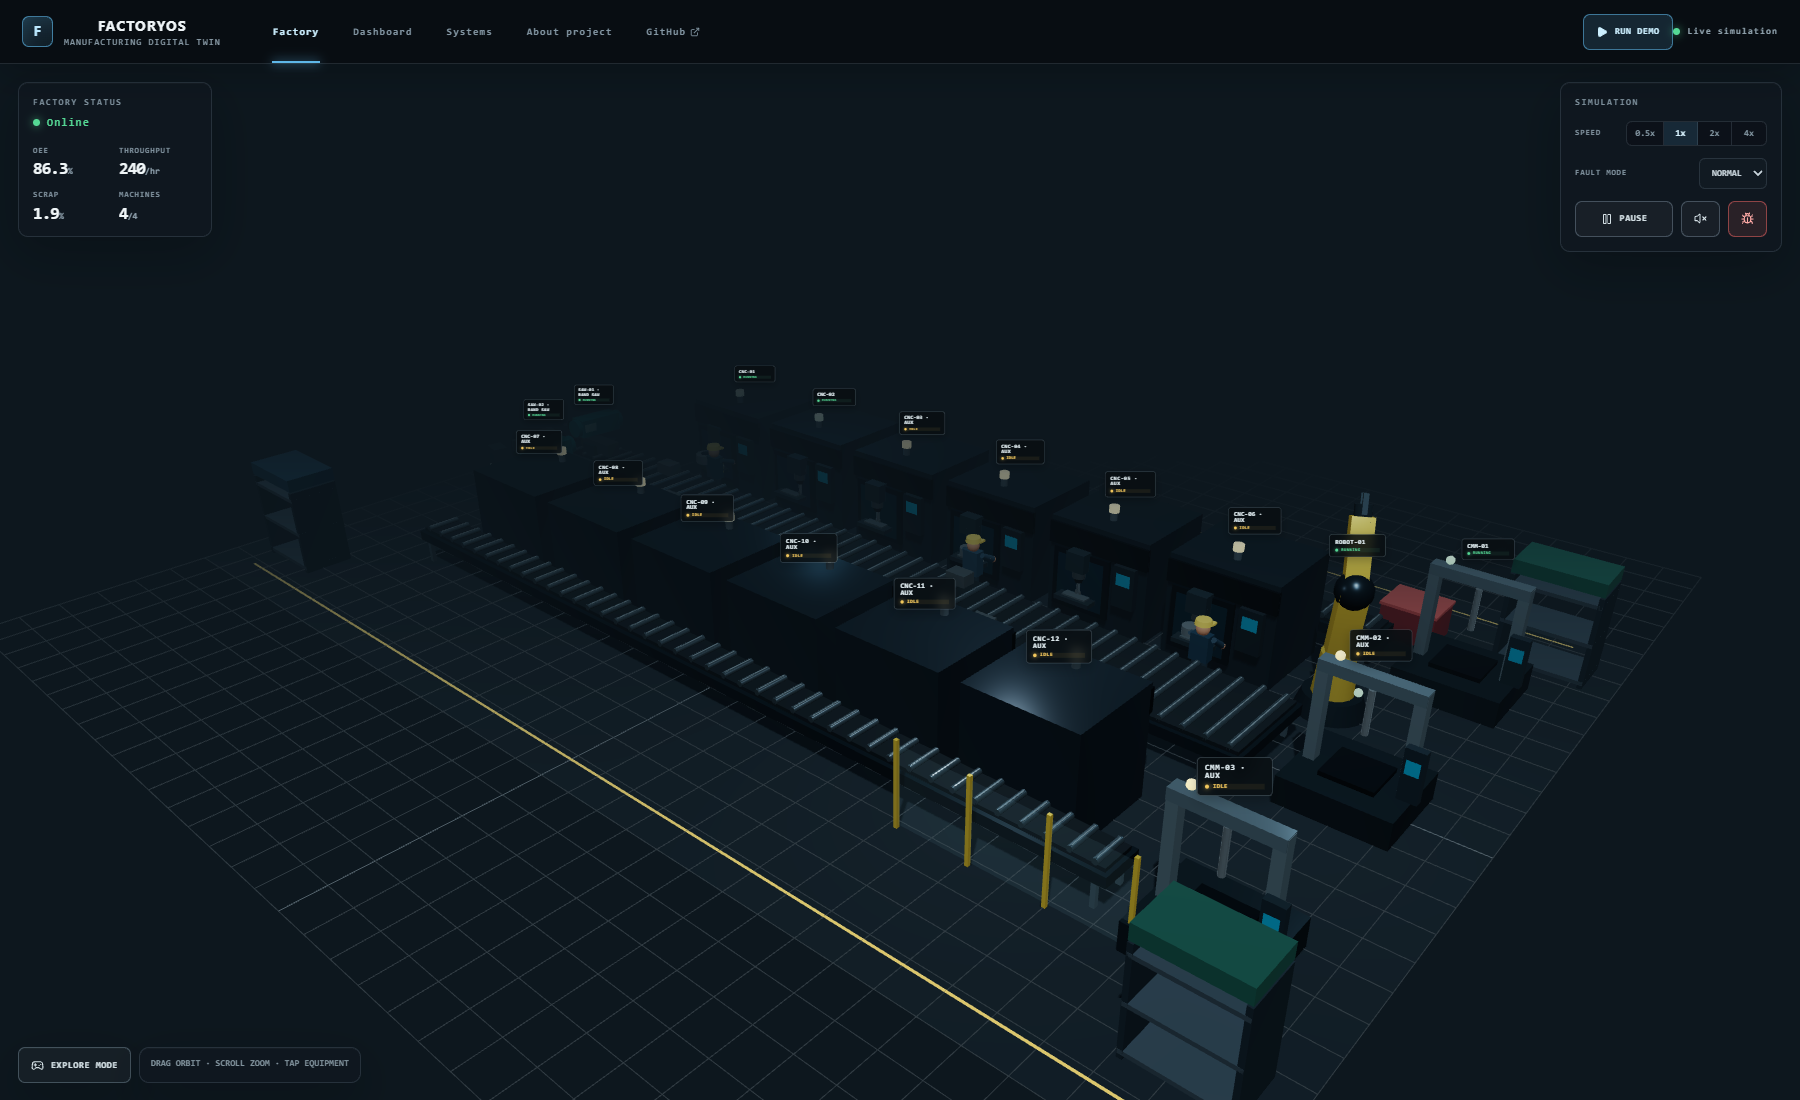
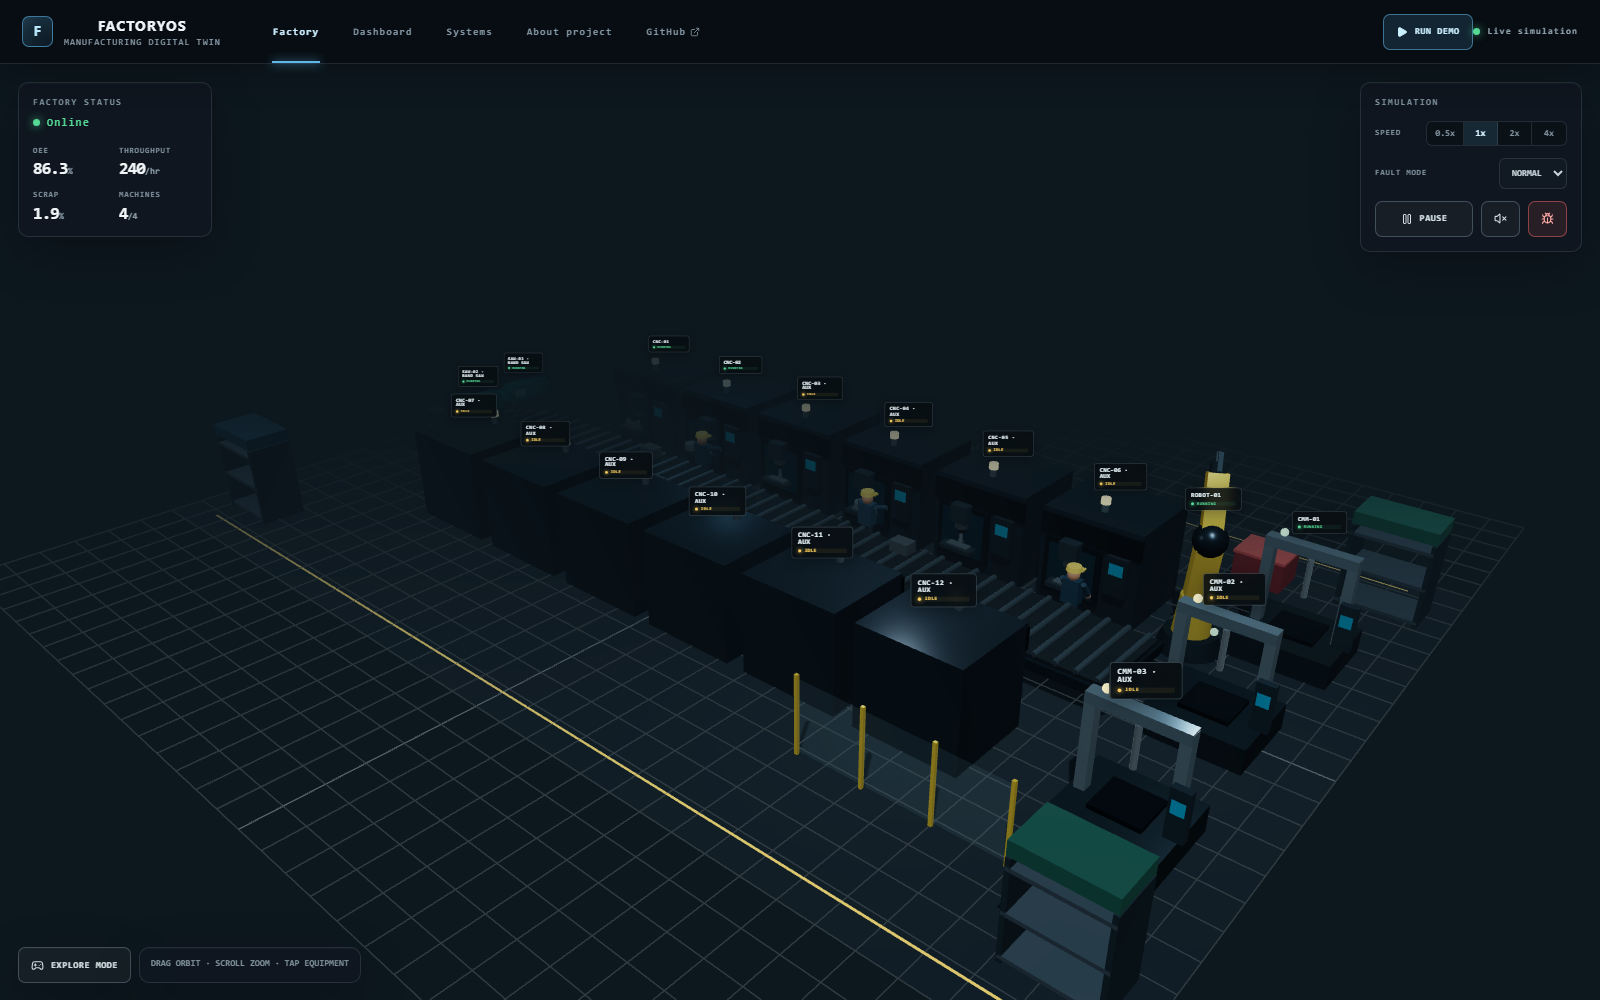
feat: return finished parts on central conveyor

diff --git a/components/ui/AboutProject.tsx b/components/ui/AboutProject.tsx
@@ -18,7 +18,7 @@ export function AboutProject() {
     <section className="content-view" aria-labelledby="about-title">
       <header className="content-header"><div><p className="eyebrow">Engineering portfolio project</p><h1 className="section-heading" id="about-title">FactoryOS</h1><p className="section-subtitle">An interactive manufacturing digital twin built to explore how equipment state, production flow, machine faults, and quality metrics influence factory performance.</p></div><a className="button button-primary" href={GITHUB_URL} target="_blank" rel="noreferrer">View source <ExternalLink size={12} /></a></header>
       <div className="content-grid about-grid">
-        <article className="about-card glass-panel"><p className="eyebrow">The project</p><h2 className="panel-title">A working engineering software prototype</h2><div className="about-copy"><p>The visual factory models two enclosed horizontal band saws feeding a shared dual-lane central conveyor, two six-machine CNC rows staffed at one operator per two machines, robotic transfer, rear outfeed conveyors, and coordinate inspection. The live instrumented path follows two CNC operations while traceable parts move through constrained stations and machine health shapes throughput and quality.</p><p>FactoryOS combines manufacturing systems thinking with modern frontend engineering. Its dashboard does not display decorative random values: OEE and every supporting metric are calculated from the cell&apos;s accumulated runtime, cycle, and inspection data.</p></div><div className="tech-badges">{tech.map((item) => <span className="tech-badge" key={item}>{item}</span>)}</div></article>
+        <article className="about-card glass-panel"><p className="eyebrow">The project</p><h2 className="panel-title">A working engineering software prototype</h2><div className="about-copy"><p>The visual factory models two enclosed horizontal band saws feeding a shared dual-lane central conveyor, two six-machine CNC rows staffed at one operator per two machines, front-conveyor return flow, direct robotic CMM loading, and coordinate inspection. The live instrumented path follows two CNC operations while traceable parts move through constrained stations and machine health shapes throughput and quality.</p><p>FactoryOS combines manufacturing systems thinking with modern frontend engineering. Its dashboard does not display decorative random values: OEE and every supporting metric are calculated from the cell&apos;s accumulated runtime, cycle, and inspection data.</p></div><div className="tech-badges">{tech.map((item) => <span className="tech-badge" key={item}>{item}</span>)}</div></article>
         <article className="about-card glass-panel"><p className="eyebrow">Demonstrated capabilities</p><div className="capability-list">{capabilities.map(({icon:Icon,label}) => <div className="capability" key={label}><Icon size={15} />{label}</div>)}</div></article>
       </div>
     </section>

diff --git a/lib/simulation/productionEngine.test.ts b/lib/simulation/productionEngine.test.ts
@@ -31,22 +31,22 @@ describe("production engine", () => {
     expect(result.parts[0].progress).toBe(100);
   });
 
-  it("routes front-unloaded work through the robot before the rear conveyor and CMM", () => {
+  it("returns front-unloaded work to the shared conveyor before robot-to-CMM placement", () => {
     const machines = createInitialMachines();
     const cncPart = { ...createPart(5, 0), currentStation: "CNC-02" as const, status: "MACHINING" as const, stationElapsed: 6.9, progress: 98 };
-    const robotStep = advanceProduction({ parts: [cncPart], machines, counters: counters(), deltaSeconds: 0.2, now: 200 });
-    expect(robotStep.parts[0].currentStation).toBe("ROBOT-01");
-    expect(robotStep.events[0].message).toContain("operator-unloaded from CNC front");
-
-    const robotPart = { ...robotStep.parts[0], stationElapsed: 2.9, progress: 98 };
-    const conveyorStep = advanceProduction({ parts: [robotPart], machines, counters: counters(), deltaSeconds: 0.2, now: 400 });
+    const conveyorStep = advanceProduction({ parts: [cncPart], machines, counters: counters(), deltaSeconds: 0.2, now: 200 });
     expect(conveyorStep.parts[0].currentStation).toBe("CONVEYOR");
-    expect(conveyorStep.events[0].message).toContain("placed part on rear outfeed");
+    expect(conveyorStep.events[0].message).toContain("returned part to shared front conveyor");
 
     const conveyorPart = { ...conveyorStep.parts[0], stationElapsed: 2.9, progress: 98 };
-    const cmmStep = advanceProduction({ parts: [conveyorPart], machines, counters: counters(), deltaSeconds: 0.2, now: 600 });
+    const robotStep = advanceProduction({ parts: [conveyorPart], machines, counters: counters(), deltaSeconds: 0.2, now: 400 });
+    expect(robotStep.parts[0].currentStation).toBe("ROBOT-01");
+    expect(robotStep.events[0].message).toContain("shared front conveyor delivered part");
+
+    const robotPart = { ...robotStep.parts[0], stationElapsed: 2.9, progress: 98 };
+    const cmmStep = advanceProduction({ parts: [robotPart], machines, counters: counters(), deltaSeconds: 0.2, now: 600 });
     expect(cmmStep.parts[0].currentStation).toBe("CMM-01");
-    expect(cmmStep.events[0].message).toContain("rear conveyor delivered part");
+    expect(cmmStep.events[0].message).toContain("placed part directly on CMM-01");
   });
 
   it("routes an out-of-tolerance inspection to the reject bin", () => {

diff --git a/lib/factory/layout.test.ts b/lib/factory/layout.test.ts
@@ -5,21 +5,13 @@ import {
   FRONT_INFEED_CONVEYORS,
   MAINTENANCE_PLACEMENTS,
   OPERATOR_CELLS,
-  REAR_OUTFEED_CONVEYORS,
   SAW_STATIONS,
 } from "@/lib/factory/layout";
 
 describe("factory line layout", () => {
-  it("places six CNCs on each of two rear outfeed lines", () => {
+  it("places six CNCs on each side of the shared front conveyor", () => {
     expect(CNC_LINES).toHaveLength(2);
     expect(CNC_LINES.map((line) => line.machines.length)).toEqual([6, 6]);
-    expect(REAR_OUTFEED_CONVEYORS).toHaveLength(2);
-
-    for (const line of CNC_LINES) {
-      const outfeed = REAR_OUTFEED_CONVEYORS.find((conveyor) => conveyor.lineId === line.id);
-      expect(outfeed?.position[2]).toBe(line.rearZ);
-      expect(outfeed?.length).toBeGreaterThan(18);
-    }
   });
 
   it("uses two saws at the end of one combined central infeed conveyor", () => {
@@ -36,18 +28,17 @@ describe("factory line layout", () => {
     expect(new Set(OPERATOR_CELLS.flatMap((cell) => cell.machines.map((machine) => machine.label))).size).toBe(12);
   });
 
-  it("keeps the infeed in front and the CMM outfeed behind each machine row", () => {
+  it("keeps both conveyor lanes in front and the production CMM to the right", () => {
+    const centralInfeed = FRONT_INFEED_CONVEYORS[0];
     for (const line of CNC_LINES) {
       const frontDirection = Math.sign(Math.cos(line.rotationY));
       expect(Math.sign(line.frontZ - line.machineZ)).toBe(frontDirection);
-      expect(Math.sign(line.rearZ - line.machineZ)).toBe(-frontDirection);
-      expect(CMM_STATIONS.some((cmm) => cmm.position[2] === line.rearZ)).toBe(true);
 
       const machineFrontZ = line.machineZ + frontDirection * 1.325;
-      const centralInfeed = FRONT_INFEED_CONVEYORS[0];
       const conveyorEdgeFacingMachine = centralInfeed.position[2] - frontDirection * (centralInfeed.width ?? 1.15) / 2;
       expect(Math.abs(machineFrontZ - conveyorEdgeFacingMachine)).toBeGreaterThan(0.7);
     }
+    expect(CMM_STATIONS.find((cmm) => cmm.instrumented)?.position[0]).toBeGreaterThan(12);
   });
 
   it("provides service positions at every instrumented machine", () => {

diff --git a/lib/factory/layout.ts b/lib/factory/layout.ts
@@ -13,7 +13,6 @@ export interface CncLineLayout {
   id: "south" | "north";
   machineZ: number;
   frontZ: number;
-  rearZ: number;
   rotationY: number;
   machines: CncLayout[];
 }
@@ -63,7 +62,6 @@ export const CNC_LINES: CncLineLayout[] = [
     id: "south",
     machineZ: -4.2,
     frontZ: -0.9,
-    rearZ: -6.1,
     rotationY: 0,
     machines: createMachines(
       ["CNC-01", "CNC-02", "CNC-03", "CNC-04", "CNC-05", "CNC-06"],
@@ -76,7 +74,6 @@ export const CNC_LINES: CncLineLayout[] = [
     id: "north",
     machineZ: 4.2,
     frontZ: 0.9,
-    rearZ: 6.1,
     rotationY: Math.PI,
     machines: createMachines(
       ["CNC-07", "CNC-08", "CNC-09", "CNC-10", "CNC-11", "CNC-12"],
@@ -85,13 +82,6 @@ export const CNC_LINES: CncLineLayout[] = [
     ),
   },
 ];
-
-export const REAR_OUTFEED_CONVEYORS: ConveyorLayout[] = CNC_LINES.map((line) => ({
-  id: `${line.id}-rear-outfeed`,
-  lineId: line.id,
-  position: [0, 0.78, line.rearZ],
-  length: 24,
-}));
 
 export const FRONT_INFEED_CONVEYORS: ConveyorLayout[] = [{
   id: "central-front-infeed",
@@ -123,14 +113,14 @@ export const OPERATOR_CELLS: OperatorCellLayout[] = CNC_LINES.flatMap((line, lin
 );
 
 export const CMM_STATIONS: { label: string; position: FactoryVector; instrumented: boolean }[] = [
-  { label: "CMM-01", position: [14, 0, -6.1], instrumented: true },
+  { label: "CMM-01", position: [14.2, 0, -4.7], instrumented: true },
   { label: "CMM-02", position: [14, 0, 0], instrumented: false },
-  { label: "CMM-03", position: [14, 0, 6.1], instrumented: false },
+  { label: "CMM-03", position: [14.2, 0, 4.7], instrumented: false },
 ];
 
 export const MAINTENANCE_PLACEMENTS: Record<MachineId, MaintenancePlacement> = {
   "CNC-01": { position: [-8.1, 0, -2.38], rotationY: Math.PI },
   "CNC-02": { position: [-4.5, 0, -2.38], rotationY: Math.PI },
   "ROBOT-01": { position: [13.05, 0, -2.25], rotationY: -2.3 },
-  "CMM-01": { position: [13.05, 0, -4.62], rotationY: Math.PI },
+  "CMM-01": { position: [13.1, 0, -5.95], rotationY: 0 },
 };

diff --git a/lib/simulation/simulationEngine.test.ts b/lib/simulation/simulationEngine.test.ts
@@ -1,0 +1,39 @@
+import { describe, expect, it } from "vitest";
+import { createPart } from "@/lib/simulation/productionEngine";
+import { getPartPosition } from "@/lib/simulation/simulationEngine";
+import type { Part, StationId } from "@/types/factory";
+
+function expectPositionClose(actual: [number, number, number], expected: [number, number, number]) {
+  actual.forEach((coordinate, index) => expect(coordinate).toBeCloseTo(expected[index]));
+}
+
+function partAt(station: StationId, progress: number): Part {
+  return {
+    ...createPart(1, 0),
+    currentStation: station,
+    status: station === "FINISHED" ? "COMPLETE" : "MOVING",
+    progress,
+  };
+}
+
+describe("3D part routing", () => {
+  it("joins the CNC unload, shared conveyor, robot, and right CMM without a rear transfer", () => {
+    const cncUnload = getPartPosition(partAt("CNC-02", 100));
+    const conveyorStart = getPartPosition(partAt("CONVEYOR", 0));
+    const conveyorEnd = getPartPosition(partAt("CONVEYOR", 100));
+    const robotStart = getPartPosition(partAt("ROBOT-01", 0));
+    const robotMidpoint = getPartPosition(partAt("ROBOT-01", 50));
+    const robotEnd = getPartPosition(partAt("ROBOT-01", 100));
+    const inspection = getPartPosition(partAt("CMM-01", 0));
+    const finished = getPartPosition(partAt("FINISHED", 0));
+
+    expectPositionClose(cncUnload, [-5.85, 1.08, -0.9]);
+    expect(conveyorStart[0]).toBeCloseTo(cncUnload[0]);
+    expect(conveyorStart[2]).toBeCloseTo(cncUnload[2]);
+    expectPositionClose(conveyorEnd, robotStart);
+    expect(robotMidpoint[1]).toBeGreaterThan(robotStart[1]);
+    expectPositionClose(robotEnd, inspection);
+    expectPositionClose(finished, inspection);
+    expect(inspection[0]).toBeGreaterThan(12);
+  });
+});

diff --git a/lib/simulation/simulationEngine.ts b/lib/simulation/simulationEngine.ts
@@ -7,10 +7,10 @@ const POSITIONS: Record<StationId, FactoryPosition> = {
   RAW: [-14.8, 1.2, -8.8],
   "CNC-01": [-9, 1.2, -4.2],
   "CNC-02": [-5.4, 1.2, -4.2],
-  CONVEYOR: [0, 1.15, -6.1],
+  CONVEYOR: [0, 1.15, -0.9],
   "ROBOT-01": [12, 1.2, -3.2],
-  "CMM-01": [14, 1.1, -6.1],
-  FINISHED: [15.2, 1.3, -8.8],
+  "CMM-01": [14.2, 1.1, -4.7],
+  FINISHED: [14.2, 1.1, -4.7],
   REJECT: [12, 0.75, -8.2],
 };
 
@@ -37,15 +37,13 @@ export function getPartPosition(part: Part, stackIndex = 0): FactoryPosition {
       return cncServicedPartPosition(PRIMARY_CNC_LOADING_PATH, 0, t);
     case "CNC-02":
       return cncServicedPartPosition(PRIMARY_CNC_LOADING_PATH, 1, t);
+    case "CONVEYOR":
+      return mix([-5.85, 1.18, -0.9], [10.6, 1.18, -0.9], t);
     case "ROBOT-01": {
-      if (t < 0.62) return mix([-5.85, 1.18, -0.9], [10.6, 1.18, -0.9], t / 0.62);
-      const transfer = (t - 0.62) / 0.38;
-      const lift = Math.sin(transfer * Math.PI) * 1.8;
-      const p = mix([10.6, 1.18, -0.9], [11.6, 1.15, -6.1], transfer);
+      const lift = Math.sin(t * Math.PI) * 1.8;
+      const p = mix([10.6, 1.18, -0.9], POSITIONS["CMM-01"], t);
       return [p[0], p[1] + lift, p[2]];
     }
-    case "CONVEYOR":
-      return mix([11.6, 1.15, -6.1], [13.4, 1.15, -6.1], t);
     case "CMM-01":
       return POSITIONS["CMM-01"];
     case "FINISHED":

diff --git a/components/factory/RobotArm.tsx b/components/factory/RobotArm.tsx
@@ -14,12 +14,14 @@ export function RobotArm() {
   const selected = useFactoryStore((state) => state.selectedMachineId === "ROBOT-01");
   const select = useFactoryStore((state) => state.selectMachine);
   const base = useRef<Group>(null); const shoulder = useRef<Group>(null); const elbow = useRef<Group>(null);
-  useFrame(() => {
-    const t = Math.max(0, (machine.progress / 100 - .58) / .42);
-    const swing = t < .5 ? t * 2 : (1-t) * 2;
-    if (base.current) base.current.rotation.y = -1.05 + swing * 2.05;
-    if (shoulder.current) shoulder.current.rotation.z = -.3 - Math.sin(t*Math.PI)*.7;
-    if (elbow.current) elbow.current.rotation.z = .65 + Math.sin(t*Math.PI)*.45;
+  useFrame((_, delta) => {
+    const t = machine.progress / 100;
+    const transfer = t * t * (3 - 2 * t);
+    const lift = Math.sin(t * Math.PI);
+    const damping = Math.min(1, delta * 7);
+    if (base.current) base.current.rotation.y += (-2.12 + transfer * 2.72 - base.current.rotation.y) * damping;
+    if (shoulder.current) shoulder.current.rotation.z += (-.48 + lift * .42 - shoulder.current.rotation.z) * damping;
+    if (elbow.current) elbow.current.rotation.z += (.8 - lift * .28 - elbow.current.rotation.z) * damping;
   });
   const click = (event: ThreeEvent<MouseEvent>) => { event.stopPropagation(); select("ROBOT-01"); };
   return (

diff --git a/lib/simulation/productionEngine.ts b/lib/simulation/productionEngine.ts
@@ -35,9 +35,9 @@ const STATION_MACHINE: Partial<Record<StationId, MachineId>> = {
 
 const NEXT_STATION: Partial<Record<StationId, StationId>> = {
   "CNC-01": "CNC-02",
-  "CNC-02": "ROBOT-01",
-  "ROBOT-01": "CONVEYOR",
-  CONVEYOR: "CMM-01",
+  "CNC-02": "CONVEYOR",
+  CONVEYOR: "ROBOT-01",
+  "ROBOT-01": "CMM-01",
 };
 
 const STATION_STATUS: Partial<Record<StationId, PartStatus>> = {
@@ -183,12 +183,12 @@ export function advanceProduction(input: ProductionStepInput): ProductionStepRes
     const nextMachine = STATION_MACHINE[next];
     const transition = next.startsWith("CNC")
       ? ` · operator-loaded into ${next} from front`
-      : next === "ROBOT-01"
-        ? " · operator-unloaded from CNC front to ROBOT-01"
-        : next === "CONVEYOR"
-          ? " · ROBOT-01 placed part on rear outfeed"
+      : next === "CONVEYOR"
+        ? " · operator returned part to shared front conveyor"
+        : next === "ROBOT-01"
+          ? " · shared front conveyor delivered part to ROBOT-01"
           : next === "CMM-01"
-            ? " · rear conveyor delivered part to CMM-01"
+            ? " · ROBOT-01 placed part directly on CMM-01"
             : ` · entered ${next}`;
     events.push(
       event(

diff --git a/lib/simulation/operatorKinematics.ts b/lib/simulation/operatorKinematics.ts
@@ -62,7 +62,10 @@ export function frontUnloadPartPosition(path: OperatorPath, machineIndex: number
   const workpieceX = machineX - 0.45 * Math.cos(path.rotationY);
   const workholding: FactoryVector = [workpieceX, 0.98, path.machineZ + facingZ * 1.48];
   const hands: FactoryVector = [workpieceX, 1.32, operatorZ + directionToMachine * 0.2];
-  return mix(workholding, hands, smoothstep(progress));
+  const staging: FactoryVector = [workpieceX, 1.08, path.infeedZ];
+  const t = clamp01(progress);
+  if (t < 0.65) return mix(workholding, hands, smoothstep(t / 0.65));
+  return mix(hands, staging, smoothstep((t - 0.65) / 0.35));
 }
 
 export function cncServicedPartPosition(path: OperatorPath, machineIndex: number, cycleProgress: number): FactoryVector {
@@ -120,7 +123,7 @@ export function operatorUnloadPoseAtProgress(
     operatorRotationY: directionToMachine > 0 ? 0 : Math.PI,
     partPosition: frontUnloadPartPosition(path, index, t),
     partVisible: true,
-    reach: 1 - smoothstep(t) * 0.24,
+    reach: 1 - smoothstep(t),
     legSwing: 0,
   };
 }

diff --git a/components/factory/FactoryScene.tsx b/components/factory/FactoryScene.tsx
@@ -17,7 +17,6 @@ import {
   CNC_LINES,
   FRONT_INFEED_CONVEYORS,
   OPERATOR_CELLS,
-  REAR_OUTFEED_CONVEYORS,
   SAW_STATIONS,
 } from "@/lib/factory/layout";
 import { useFactoryStore } from "@/store/useFactoryStore";
@@ -42,9 +41,6 @@ function Cell() {
           <CNC key={machine.label} id={machine.instrumentedId} position={machine.position} rotationY={machine.rotationY} />
         ) : (
           <AuxiliaryCNC key={machine.label} label={machine.label} position={machine.position} rotationY={machine.rotationY} />
-        ))}
-        {REAR_OUTFEED_CONVEYORS.map((conveyor, index) => (
-          <Conveyor key={conveyor.id} position={conveyor.position} length={conveyor.length} productionLane={index === 0} />
         ))}
         {FRONT_INFEED_CONVEYORS.map((conveyor) => <Conveyor key={conveyor.id} position={conveyor.position} length={conveyor.length} width={conveyor.width} infeedLane infeedLanes={conveyor.infeedLanes} />)}
         {SAW_STATIONS.map((saw) => <SawStation key={saw.label} label={saw.label} position={saw.position} />)}

diff --git a/lib/simulation/operatorKinematics.test.ts b/lib/simulation/operatorKinematics.test.ts
@@ -39,13 +39,17 @@ describe("operator front-loading kinematics", () => {
     expect(pose.reach).toBeGreaterThan(0.9);
   });
 
-  it("returns the completed part through the same front door to the operator", () => {
+  it("returns the completed part through the front door to the same conveyor lane", () => {
     const machined = frontUnloadPartPosition(southPath, 1, 0);
-    const held = frontUnloadPartPosition(southPath, 1, 1);
+    const held = frontUnloadPartPosition(southPath, 1, 0.65);
+    const returned = frontUnloadPartPosition(southPath, 1, 1);
 
     expect(held[2]).toBeGreaterThan(machined[2]);
     expect(held[1]).toBeGreaterThan(machined[1]);
-    expect(cncServicedPartPosition(southPath, 1, 1)).toEqual(held);
+    expect(returned[0]).toBeCloseTo(-5.85);
+    expect(returned[1]).toBeCloseTo(1.08);
+    expect(returned[2]).toBeCloseTo(southPath.infeedZ);
+    expect(cncServicedPartPosition(southPath, 1, 1)).toEqual(returned);
   });
 
   it("rotates one operator through both assigned CNCs", () => {

diff --git a/store/useFactoryStore.ts b/store/useFactoryStore.ts
@@ -208,8 +208,8 @@ export const useFactoryStore = create<FactoryState>((set) => ({
             RAW: [0, "Staging a traceable raw blank", "CNC-01"],
             "CNC-01": [1, "CNC-01 is rough-machining the demo part", "CNC-01"],
             "CNC-02": [2, "CNC-02 is completing the finish operation", "CNC-02"],
-            "ROBOT-01": [3, "The operator has front-unloaded the part for ROBOT-01 transfer", "ROBOT-01"],
-            CONVEYOR: [4, "The rear conveyor is delivering the part to inspection", null],
+            CONVEYOR: [3, "The operator returned the part to the shared front conveyor", null],
+            "ROBOT-01": [4, "ROBOT-01 is placing the part directly on CMM-01", "ROBOT-01"],
             "CMM-01": [5, "CMM-01 is validating critical dimensions", "CMM-01"],
             FINISHED: [6, "Inspection passed. KPI history updated from the event.", "CMM-01"],
           };
